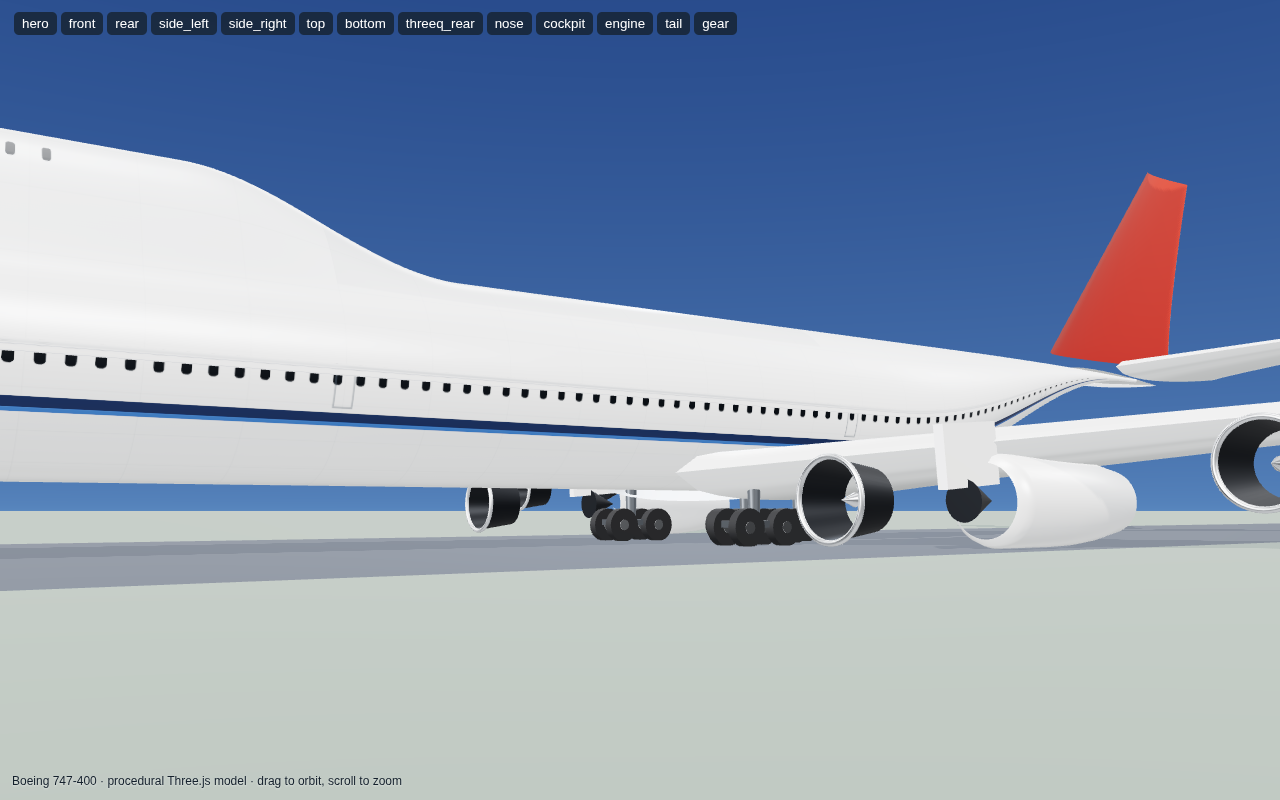
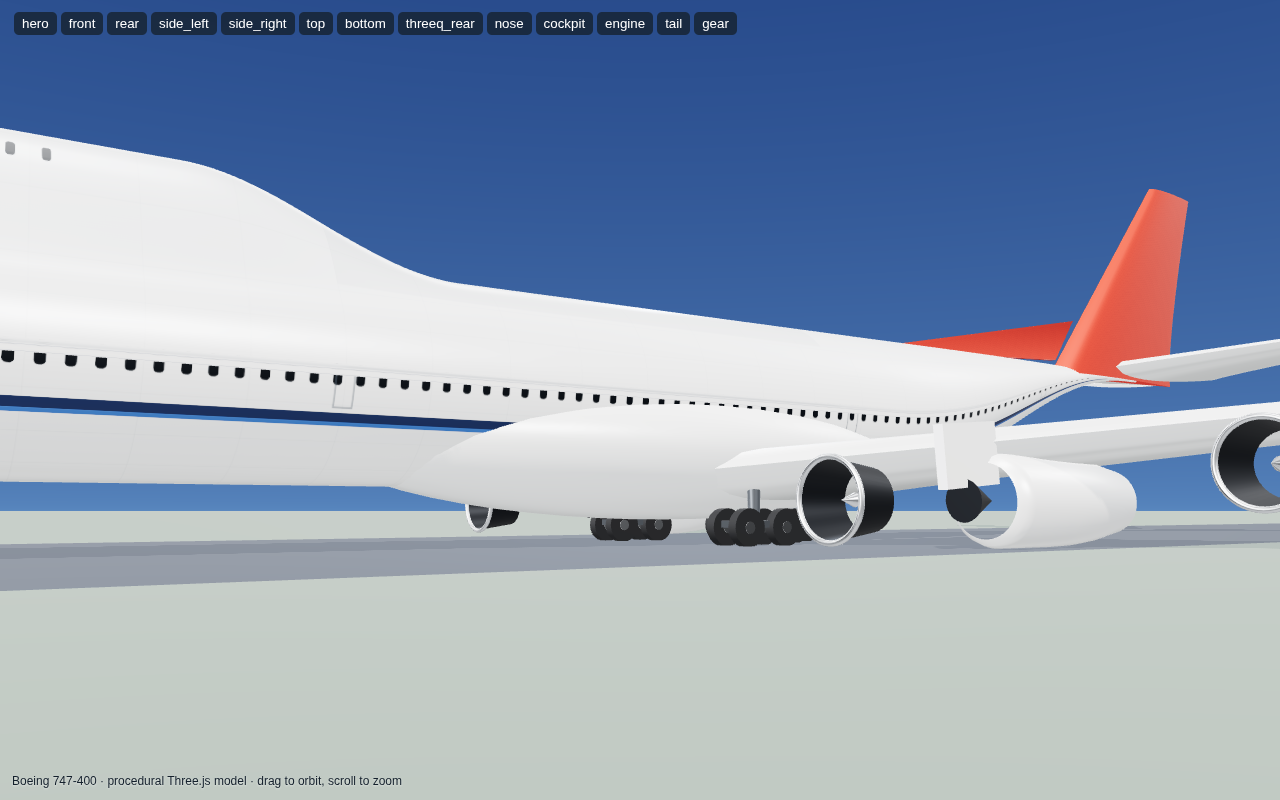
Add belly fairing, dorsal fin fillet, upper-deck/cockpit windows
Wing-body belly fairing, dorsal fin blending into the vertical stabiliser,
lowered fin root, and correctly-mapped upper-deck and cockpit window rows on
the procedural livery texture.

Claude-Session: https://claude.ai/code/session_016wgpqmvvsct3iFp6u1vC3Y

diff --git a/boeing747/aircraft.js b/boeing747/aircraft.js
@@ -278,6 +278,22 @@ function buildSurface({
   return mesh;
 }
 
+// Triangular prism (used for the dorsal fin fillet). pts = 3 × [z, y].
+function buildPrism(mat, pts, half) {
+  const v = [];
+  for (const sx of [half, -half]) for (const p of pts) v.push(sx, p[1], p[0]);
+  const g = new THREE.BufferGeometry();
+  g.setAttribute('position', new THREE.Float32BufferAttribute(v, 3));
+  g.setIndex([0, 1, 2, 3, 5, 4,
+              0, 1, 4, 0, 4, 3,
+              1, 2, 5, 1, 5, 4,
+              2, 0, 3, 2, 3, 5]);
+  g.computeVertexNormals();
+  const m = new THREE.Mesh(g, mat);
+  m.castShadow = true; m.receiveShadow = true;
+  return m;
+}
+
 // Canted winglet at a wing tip.  tip = {x,y,zLE,chord}
 function buildWinglet(side, tip, mat) {
   const surf = buildSurface({
@@ -429,7 +445,7 @@ function makeMaterials() {
     fuselage2: new THREE.MeshStandardMaterial({ color: 0xf2f4f6, metalness: 0.18, roughness: 0.34 }),
     glass: new THREE.MeshStandardMaterial({ color: 0x0a0f16, metalness: 0.6, roughness: 0.12 }),
     wing: new THREE.MeshStandardMaterial({ color: 0xeef0f2, metalness: 0.30, roughness: 0.30 }),
-    tail: new THREE.MeshStandardMaterial({ color: 0xc0392b, metalness: 0.20, roughness: 0.40 }),
+    tail: new THREE.MeshStandardMaterial({ color: 0xc0392b, metalness: 0.20, roughness: 0.40, side: THREE.DoubleSide }),
     engine: new THREE.MeshStandardMaterial({ color: 0xf2f3f5, metalness: 0.25, roughness: 0.30 }),
     chrome: new THREE.MeshStandardMaterial({ color: 0xcfd3d8, metalness: 1.0, roughness: 0.18 }),
     intake: new THREE.MeshStandardMaterial({ color: 0x1c2026, metalness: 0.5, roughness: 0.5, side: THREE.DoubleSide }),
@@ -449,6 +465,13 @@ export function createBoeing747() {
   const fus = buildFuselage(M);
   root.add(fus.group);
   const cY = fus.centerYAt;
+
+  // ---- Wing-body belly fairing (signature 747 lower bulge) ----
+  const fairing = new THREE.Mesh(new THREE.SphereGeometry(1, 40, 28), M.fuselage2);
+  fairing.scale.set(3.85, 2.45, 12.5);
+  fairing.position.set(0, cY(-3) - 1.7, -3.5);
+  fairing.castShadow = true; fairing.receiveShadow = true;
+  root.add(fairing);
 
   // ---- Wings (low-mounted, swept 37.5°, dihedral ~6°) ----
   const wingRootZ = -2.0;
@@ -494,12 +517,14 @@ export function createBoeing747() {
 
   // ---- Vertical tail ----
   const tailRootZ = -27;
-  const finRootY = cY(tailRootZ) + 1.5;
+  const finRootY = cY(tailRootZ) + 0.5;
   const fin = buildSurface({
     side: 1, rootChord: 11, tipChord: 4.2, span: 11, sweep: THREE.MathUtils.degToRad(42),
     dihedral: 0, tc: 0.11, rootZ: tailRootZ, rootY: finRootY, rootX: 0, vertical: true, mat: M.tail,
   });
   root.add(fin);
+  // dorsal fin fillet sweeping forward from the fin base into the LE
+  root.add(buildPrism(M.tail, [[-13.5, 7.85], [-27.2, 8.5], [-28.8, 10.6]], 0.14));
 
   // ---- Horizontal stabilisers ----
   const hRootZ = -30;
